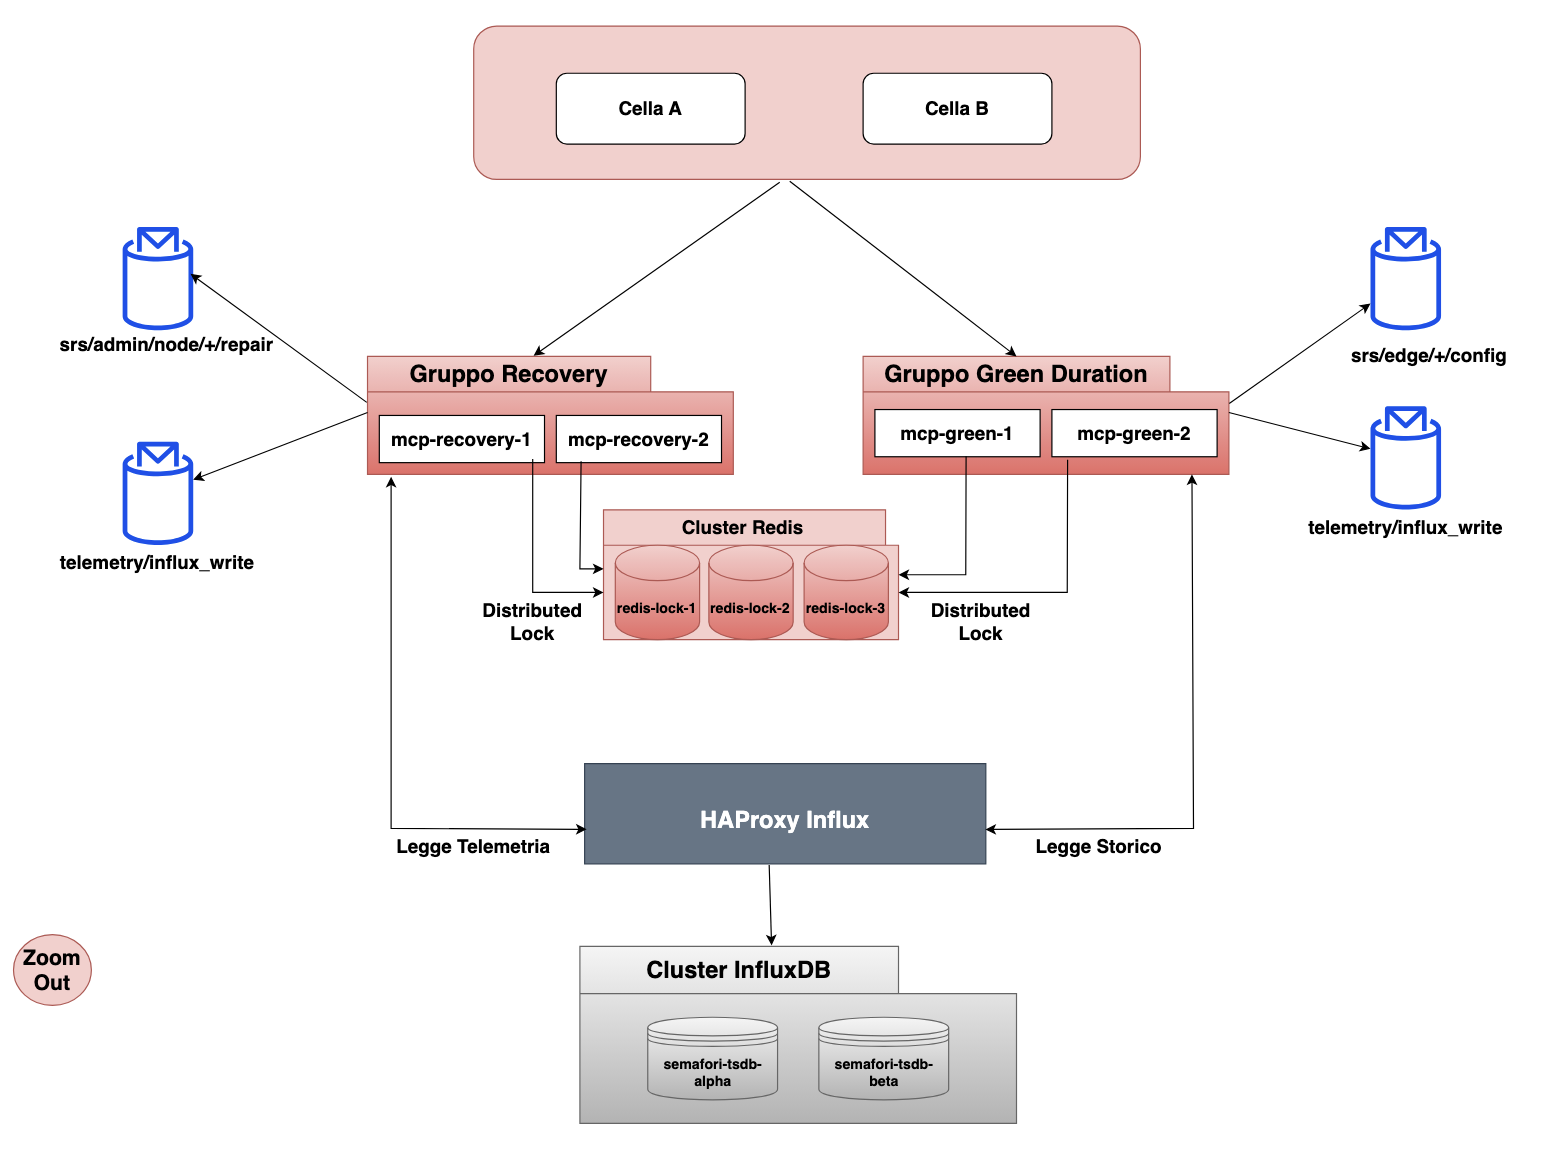
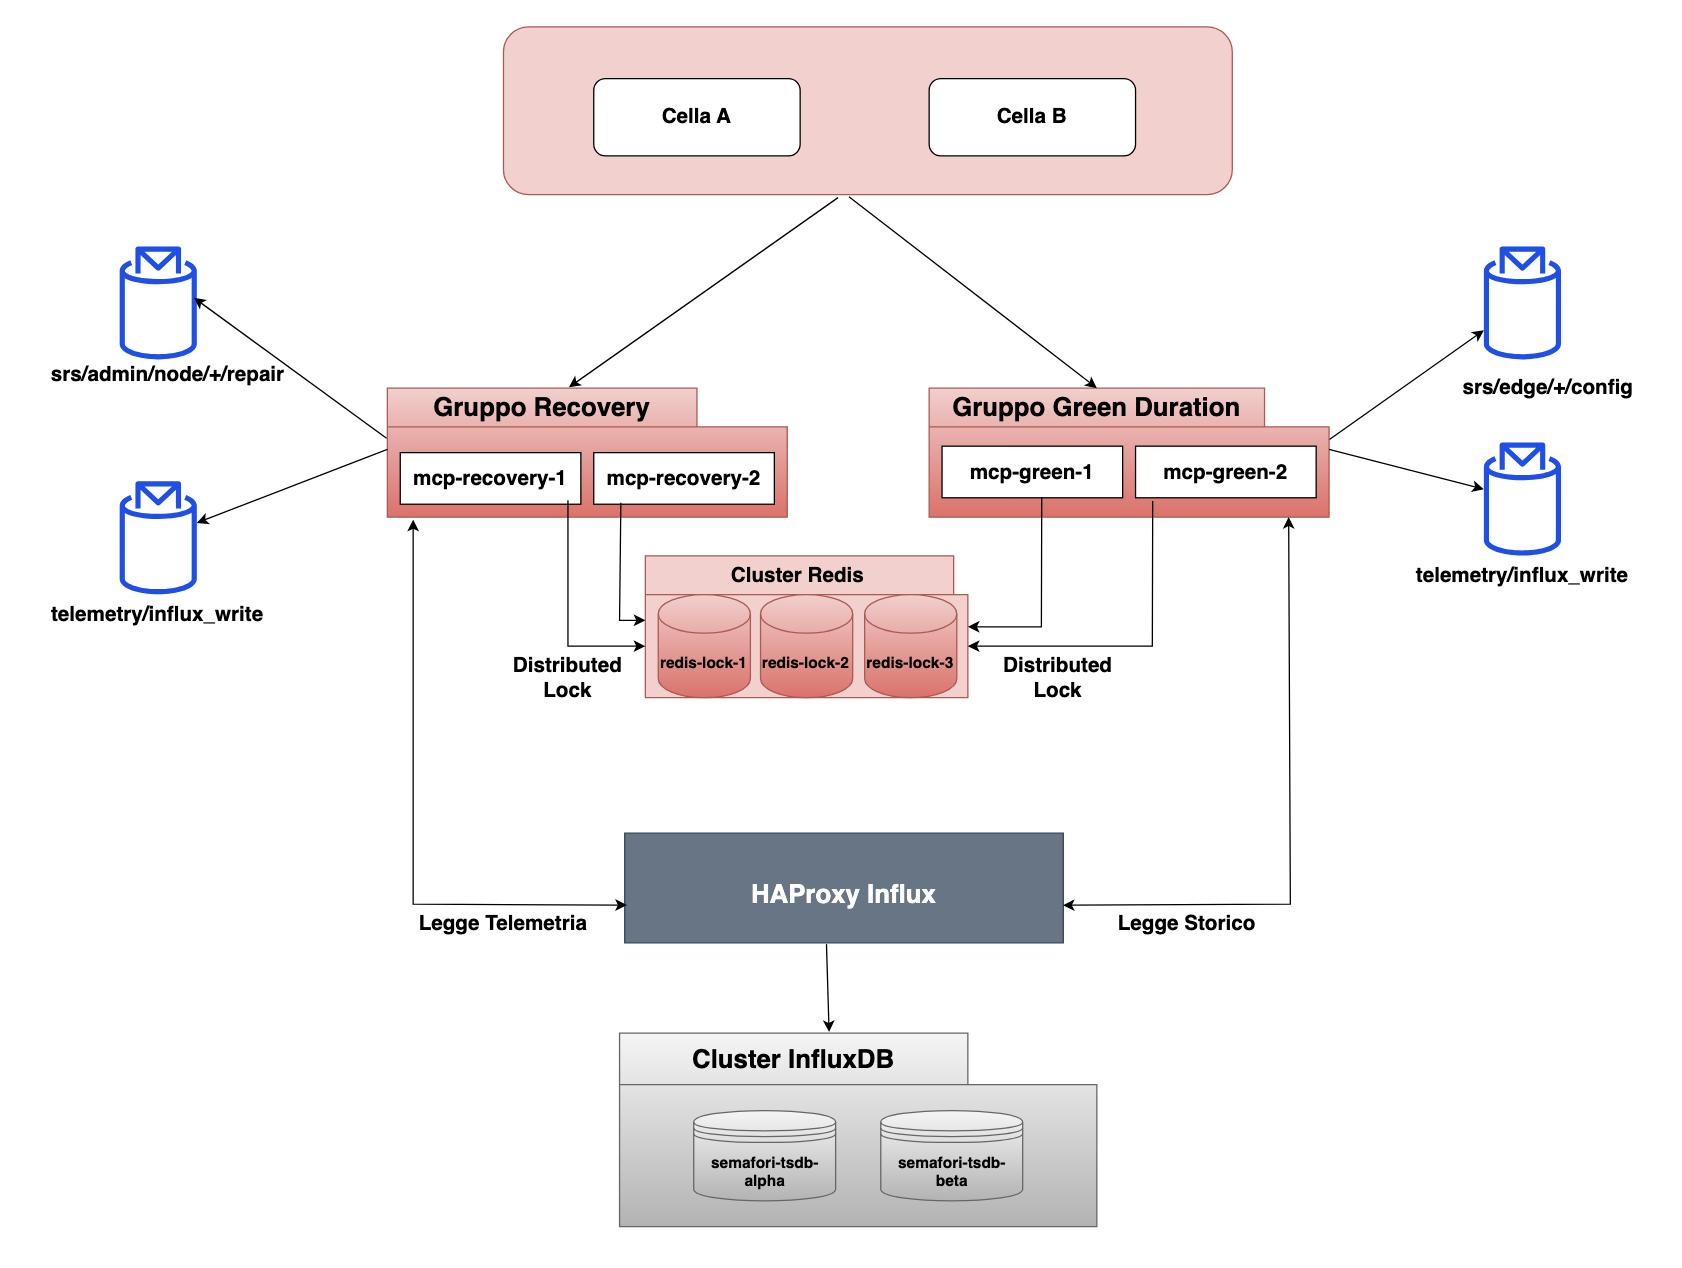
aggiornamento readme

diff --git a/README.md b/README.md
@@ -14,7 +14,7 @@ Abbiamo progettato un'infrastruttura distribuita ad **Alta Affidabilità (HA)** 
 
 Il sistema è stato ingegnerizzato seguendo un'architettura a microservizi divisa in 5 livelli logici, progettati per non avere alcun *Single Point of Failure* (SPOF).
 
-![livello_0_archittettura](img/livello_0_archittettura.png)
+![livello_0_archittettura](img/livello_0.png)
 
 1. **Livello Edge / Dispositivi:** I nodi semaforici fisici (qui implementati tramite un simulatore Python). Ogni nodo ha una logica di base autonoma: se perde la connessione o subisce un guasto, scala in sicurezza attivando il giallo lampeggiante (Graceful Degradation).
 2. **Livello di Comunicazione:** Un robusto cluster MQTT (EMQX) bilanciato da HAProxy. Garantisce la consegna dei messaggi (telemetria, heartbeat, comandi) anche in caso di caduta di uno dei broker.